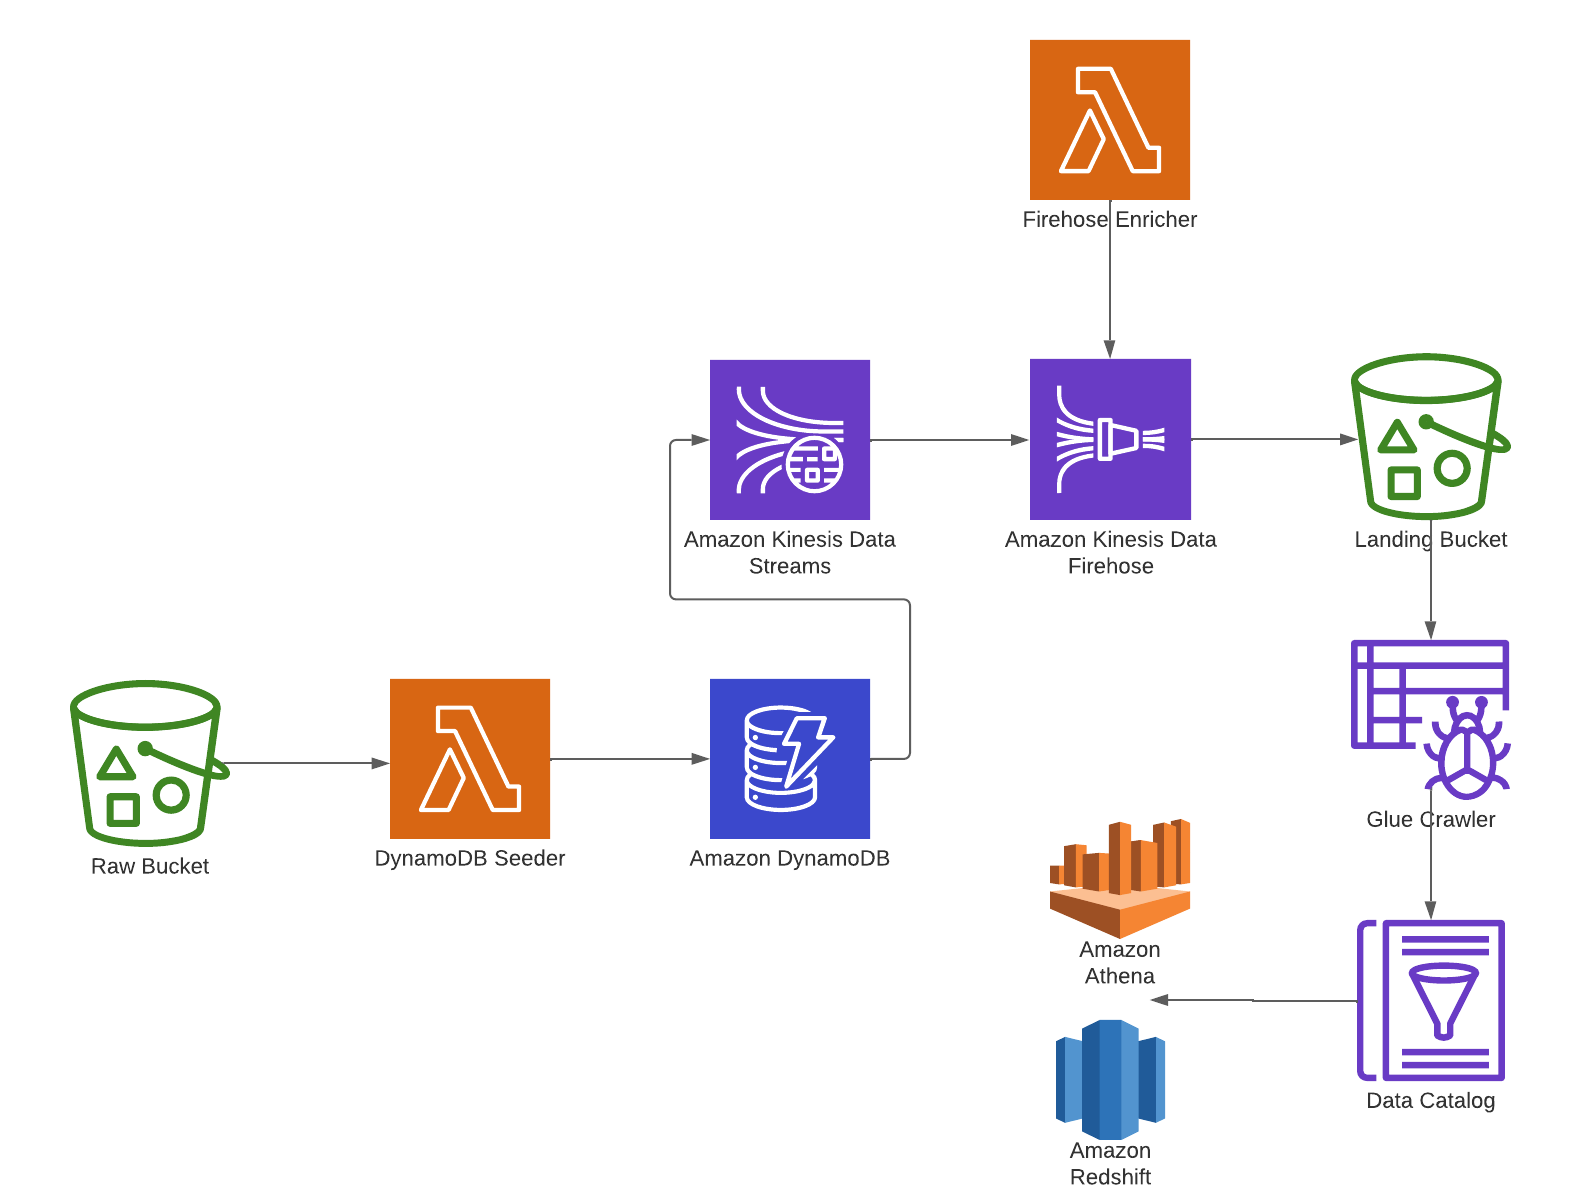
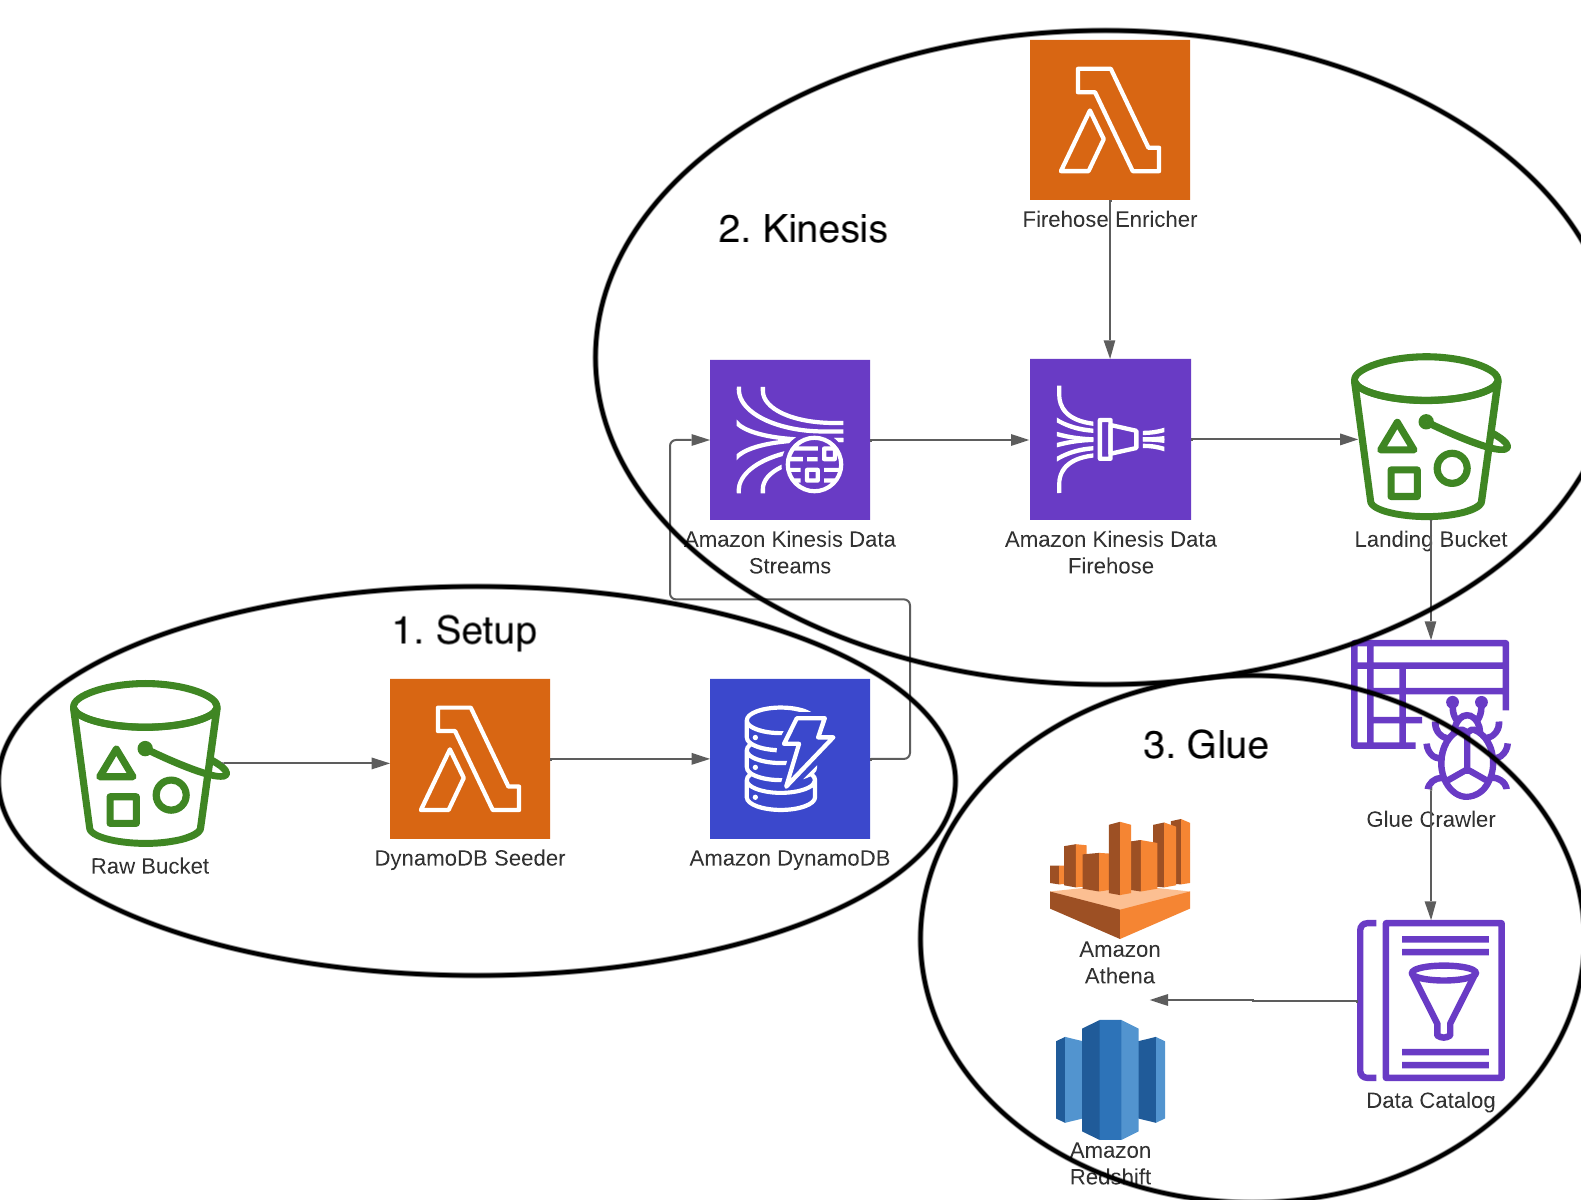
update docs

diff --git a/README.md b/README.md
@@ -14,7 +14,7 @@ uses `year`, `month`, `date` based on the createdAt field in the example dataset
 ![](./docs/images/arch.png)
 ---
 
-#### Setup
+#### 1. Setup
 
 ![](./docs/images/setup.png)
 
@@ -22,14 +22,19 @@ To simulate an active application, data is seeded to the DynamoDB table after th
 the [s3 bucket deployment construct](https://docs.aws.amazon.com/cdk/api/v2/docs/aws-cdk-lib.aws_s3_deployment.BucketDeployment.html)
 provided by the CDK.
 
-The example data generation script can be found under `assets/data` and a bit more information can be found
-under [docs/architecture/data ](https://github.com/bcgalvin/cdk-kinesis-firehose-athena/tree/main/docs/architecture/data)
+The example data generation script can be found under `assets/data` and a bit more information on the dynamodb table
+definition can be found
+under [docs/architecture/data](https://github.com/bcgalvin/cdk-kinesis-firehose-athena/tree/main/docs/architecture/data)
+.
 
-#### Dynamo
+The DynamoDB Seeder lambda function simply downloads the example data from the raw s3 bucket and then writes to dynamodb
+via the `BatchWriteItem` operation. This api call accepts up to 25 records at a time so the input data is split into
+chunks of that size and a goroutine is spawned to process each resulting slice.
 
 ![](./docs/images/dynamo.png)
+<div style="text-align: center;"><i>The resulting dynamo table</i></div>   
 
-#### S3
+#### 2. Kinesis
 
 ![](./docs/images/s3.png)
 
